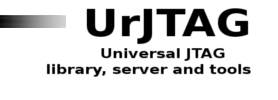
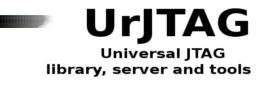
Fixed color details
git-svn-id: https://urjtag.svn.sourceforge.net/svnroot/urjtag/trunk@874 b68d4a1b-bc3d-0410-92ed-d4ac073336b7

Changed region(s): [[0.1439, 0.15, 0.259, 0.3]]

diff --git a/web/htdocs/index.html b/web/htdocs/index.html
@@ -1,10 +1,25 @@
 <html>
-<body style="margin:0px; background-color: #e0f0e0">
-<table cellspacing="0" cellpadding="0" width="100%" border="0">
-<tr style="background-color: #a0d0a0; background-image:url(images/top_bg_rt311.png); background-repeat:repeat-x">
-<td valign="top" width="169"><img src="images/topleft_rt311_top.png" style="background-color:#a0d0a0"/></td>
+<head><title>UrJTAG - Universal JTAG library, server and tools</title>
+<style type="text/css">
+  body {
+    margin:0px;
+    background-color: #f0fff0;
+    color:black;
+    font-family:Arial,Helvetica,sans-serif;
+  }
+  .top      { background-color:#a0d0a0 } 
+  a:link    { text-decoration:none; color:#006000 }
+  a:visited { text-decoration:none; color:#006000 }
+  a:hover   { text-decoration:underline; color:#006000 }
+  a:active  { text-decoration:underline; color:#006000 }
+  a:focus   { text-decoration:underline; color:#006000 }
+</style>
+<body>
+<table cellspacing="0" cellpadding="0" width="100%">
+<tr class="top" style="background-image:url(images/top_bg_rt311.png); background-repeat:repeat-x">
+<td valign="top" width="169"><img class="top" src="images/topleft_rt311_top.png"/></td>
 <td>&nbsp;</td>
-<td valign="top" width="278" ><img src="images/topright_rt311.png" style="background-color:#a0d0a0"/></td>
+<td valign="top" width="278"><img class="top" src="images/topright_rt311.png"/></td>
 </tr>
 <tr>
 
@@ -15,30 +30,37 @@
 <table border="0" cellspacing="4" cellpadding="4">
 <tr><td><a href="http://sourceforge.net/project/showfiles.php?group_id=193266">Downloads</a></td></tr>
 <tr><td><a href="book/index.html">Documentation</a></td></tr>
+<tr><td><a href="http://http://sourceforge.net/mail/?group_id=193266">Mailing Lists</a>
 <tr><td><a href="http://sourceforge.net/projects/urjtag/">SF Project Data</a></td></tr>
 </table>
 
-
 </td>
 <td colspan="2">
+<p> &nbsp; </p>
+
+<h1>Introduction</h1>
+
 <p>
-&nbsp;
+UrJTAG aims to create an enhanced, modern tool for communicating over JTAG with
+flash chips, CPUs, and many more. It takes on the well proven openwince jtag
+tools code. <a href="http://urjtag.wiki.sourceforge.net/Future">Future plans</a>
+include conversion of the code base into a library that can be used with other applications. A flexible 
+<a href="http://urjtag.wiki.sourceforge.net/FutureProtocol">remote communication protocol</a>
+that can be used over almost any type of serial link (including TCP/IP) is
+currently being defined.
 </p>
-<p>
-UrJTAG aims to create an enhanced, modern tool for communicating over JTAG with flash chips, CPUs, and many more. It takes on the well proven openwince jtag tools code, with many of the available patches applied.
-</p>
-<p>
-Current efforts concentrate on reviving the popular openwince jtag tool. Development in openwince ceased about 2 years ago and an enourmous number of patches piled up in that project's tracker, awaiting integration with the code in CVS.
-</p>
-<p>
-We have taken the openwince jtag code into the UrJTAG subversion repository,
+
+<h1>Status</h1>
+
+  We have taken the openwince jtag code into the UrJTAG subversion repository,
 and applied all patches that have been submitted to the openwince patch
 tracking system in the past years. Several enhancements such as support for
 new flash devices, buses, and some USB cables have been integrated.
+
+The <b>first release is planned for December 24th, 2007</b>.
 </p>
-<p>
-&nbsp;
-</p>
+
+<p>&nbsp;</p>
 </td>
 </tr>
 </table>
